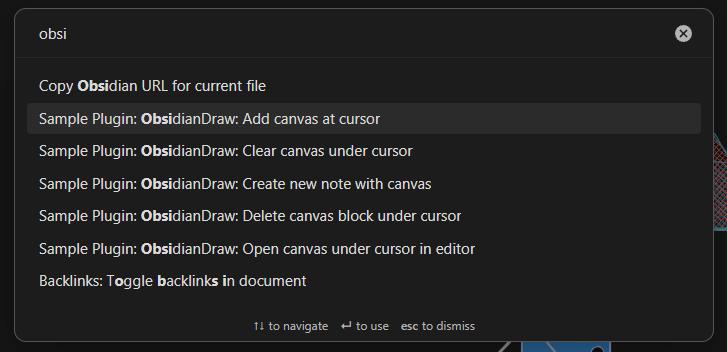
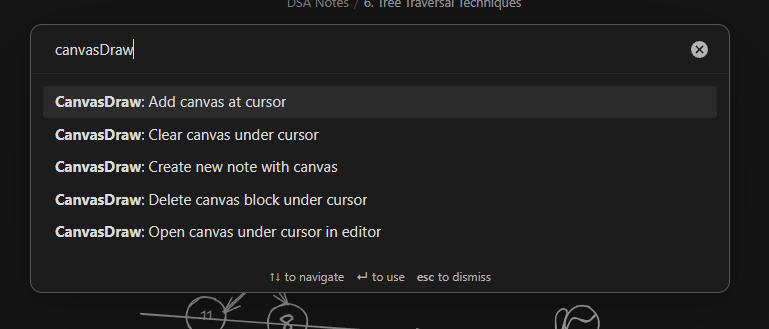
docs: match README image refs to actual asset filenames

diff --git a/README.md b/README.md
@@ -13,7 +13,7 @@ Embed interactive drawings, system architecture diagrams, mind maps, and sketche
 
 <br/>
 
-![CanvasDraw Inline Canvas Preview](./assets/inline-preview.png)
+![CanvasDraw inline drawing in Obsidian note](./assets/inline-preview1.png)
 
 </div>
 
@@ -21,45 +21,49 @@ Embed interactive drawings, system architecture diagrams, mind maps, and sketche
 
 ## ✨ Features at a Glance
 
-- 📝 **Native Markdown Code Blocks** — Diagrams are stored directly within ` ```excalidraw ` code blocks in your note files.
-- ⚡ **Instant Click-to-Edit Modal** — Click any drawing thumbnail to open the full-screen Excalidraw editor modal.
-- 🖼 **Image & Asset Support** — Paste or drag screenshots and images into your drawing; binary assets are automatically stored locally in your vault's `content/` folder without cluttering markdown.
-- 📚 **Excalidraw Libraries & Custom Imports** — Full support to import `.excalidrawlib` files via the Library panel.
-- 🔍 **Interactive Canvas & Zoom Controls** — Hover to reveal smooth `+` / `−` zoom buttons and a corner resize handle.
-- 💾 **Per-Block Layout Persistence** — Canvas height and zoom level are saved directly inside each block's JSON metadata, preserving your exact viewport per drawing.
-- 🌗 **Automatic Theme Sync** — Seamlessly adapts to Obsidian's Light and Dark themes.
-- 🪟 **Transparent Background Mode** — Optional setting to render diagrams transparently for seamless note blending.
+- 📝 **Native Markdown Code Blocks** — Diagrams stored directly inside ` ```excalidraw ` code blocks in your note files.
+- ⚡ **Instant Click-to-Edit Modal** — Click any drawing thumbnail to open the full-screen Excalidraw editor.
+- 🖼 **Image & Asset Support** — Paste or drag images into your drawing; assets are saved automatically in your vault's `content/` folder.
+- 📚 **Library Panel & Custom Imports** — Import `.excalidrawlib` files and browse pre-built elements from the Library sidebar.
+- 🔍 **Interactive Canvas & Zoom Controls** — Hover to reveal `+` / `−` zoom buttons and a corner resize handle.
+- 💾 **Per-Block Layout Persistence** — Canvas height and zoom level saved inside each block's JSON, preserving your exact viewport.
+- 🌗 **Automatic Theme Sync** — Adapts to Obsidian's Light and Dark themes seamlessly.
+- 🪟 **Transparent Background Mode** — Render diagrams with a transparent background for seamless note blending.
 - ⌨ **Command Palette Integration** — Fast commands to insert, edit, clear, and delete drawing blocks.
 
 ---
 
 ## 📸 Feature Tour
 
-### 1. Inline Reading View Preview
-In Reading View, your drawings render as crisp inline previews. Hover over any canvas to reveal interactive controls:
-- **Click to open drawing editor** — launches the full Excalidraw modal
-- **Zoom Controls (`+` / `−`)** — zoom in or out without opening the editor
-- **Corner Resize Handle** — drag to adjust the preview height
+### 1. Inline Previews in Reading View
+Your drawings render as crisp inline previews inside your notes. Click on any canvas to open the full editor modal instantly.
 
-![CanvasDraw inline preview in Obsidian note](./assets/inline-preview.png)
+![CanvasDraw inline drawing preview in Obsidian](./assets/inline-preview1.png)
 
 ---
 
 ### 2. Full-Featured Drawing Editor
-Open any canvas into the complete Excalidraw workspace. Use shapes, arrows, custom colors, roughness settings, and handwriting fonts.
+Open any canvas into the complete Excalidraw workspace — shapes, arrows, colors, roughness settings, and handwriting fonts, all in a clean full-screen modal.
 
-![CanvasDraw full-screen editor modal](./assets/modal-editor.png)
+![CanvasDraw full-screen editor modal](./assets/modal-editor2.png)
 
 ---
 
 ### 3. Library Panel & Element Browser
-Click the **Library** button in the editor to open the side panel. Browse and drag pre-built elements directly onto your canvas, or click **Browse libraries** to discover more from the Excalidraw community.
+Click **Library** in the editor toolbar to open the side panel. Browse pre-built shape libraries or click **Browse libraries** to discover more.
 
-![CanvasDraw editor with library panel open](./assets/library-panel.png)
+![CanvasDraw editor with library panel open](./assets/modal-editor.png)
 
 ---
 
-### 4. Command Palette Quick Actions
+### 4. Static Image Previews (BFS / Complex Diagrams)
+Complex diagrams like BFS trees render as crisp static image previews in your notes, keeping reading view fast and lightweight.
+
+![CanvasDraw static BFS diagram preview](./assets/inline-preview2.png)
+
+---
+
+### 5. Command Palette Quick Actions
 Access all drawing actions instantly via `Ctrl+P` / `Cmd+P`:
 
 ![CanvasDraw Command Palette](./assets/command-palette.png)
@@ -74,15 +78,15 @@ Access all drawing actions instantly via `Ctrl+P` / `Cmd+P`:
 
 ---
 
-### 5. Customization & Library Settings
+### 6. Customization & Library Settings
 Configure your drawing preferences in **Settings → Community plugins → CanvasDraw**:
 
-![CanvasDraw Plugin Settings](./assets/plugin-settings.png)
+![CanvasDraw Plugin Settings](./assets/settings.png)
 
-- **Installed Libraries**: View active `.excalidrawlib` packages, import new library files, or delete unwanted ones.
 - **Transparent Background**: Toggle transparent background mode for seamless note blending.
 - **Render Thumbnail in Canvas**: Switch between static image previews and live interactive canvas containers.
 - **Default Canvas Height**: Set the default initial height (px) for newly created drawing blocks.
+- **Installed Libraries**: View active `.excalidrawlib` files, import new ones, or delete unwanted ones.
 
 ---
 
@@ -99,7 +103,7 @@ Configure your drawing preferences in **Settings → Community plugins → Canva
    }
    ```
    ````
-3. Click the canvas thumbnail to open the Excalidraw editor and start sketching!
+3. Click the canvas thumbnail to open the Excalidraw editor and start drawing!
 4. Close the modal when finished — your changes save automatically back to the note.
 
 ---
@@ -109,7 +113,7 @@ Configure your drawing preferences in **Settings → Community plugins → Canva
 1. Download `main.js`, `manifest.json`, and `styles.css` from the [latest release](https://github.com/Raushan-kumar-yadav/obsidianDraw/releases/latest).
 2. In your Obsidian vault, navigate to `.obsidian/plugins/` and create a folder named `canvas-draw`.
 3. Copy the three files into `.obsidian/plugins/canvas-draw/`.
-4. Open **Settings → Community plugins** in Obsidian, click Refresh, and enable **CanvasDraw**.
+4. Open **Settings → Community plugins**, click Refresh, and enable **CanvasDraw**.
 
 ---
 
